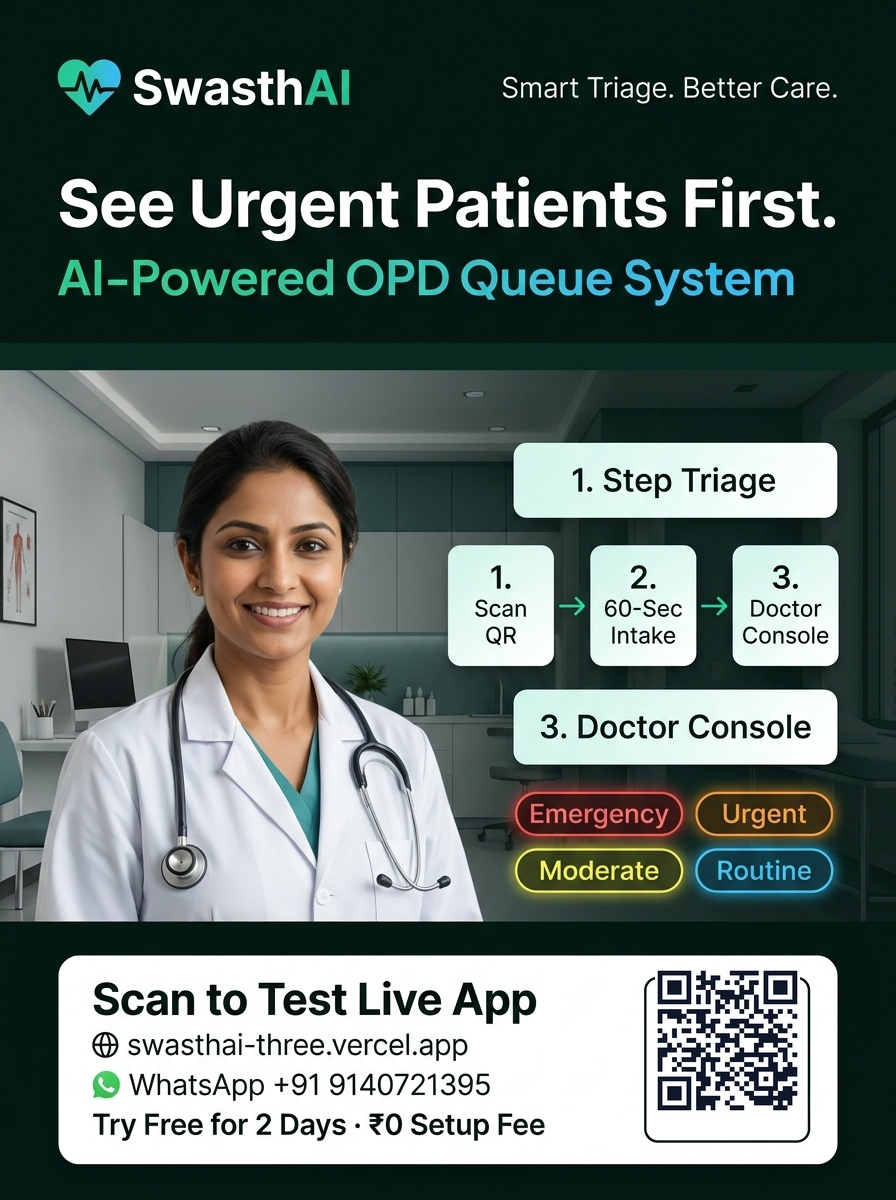
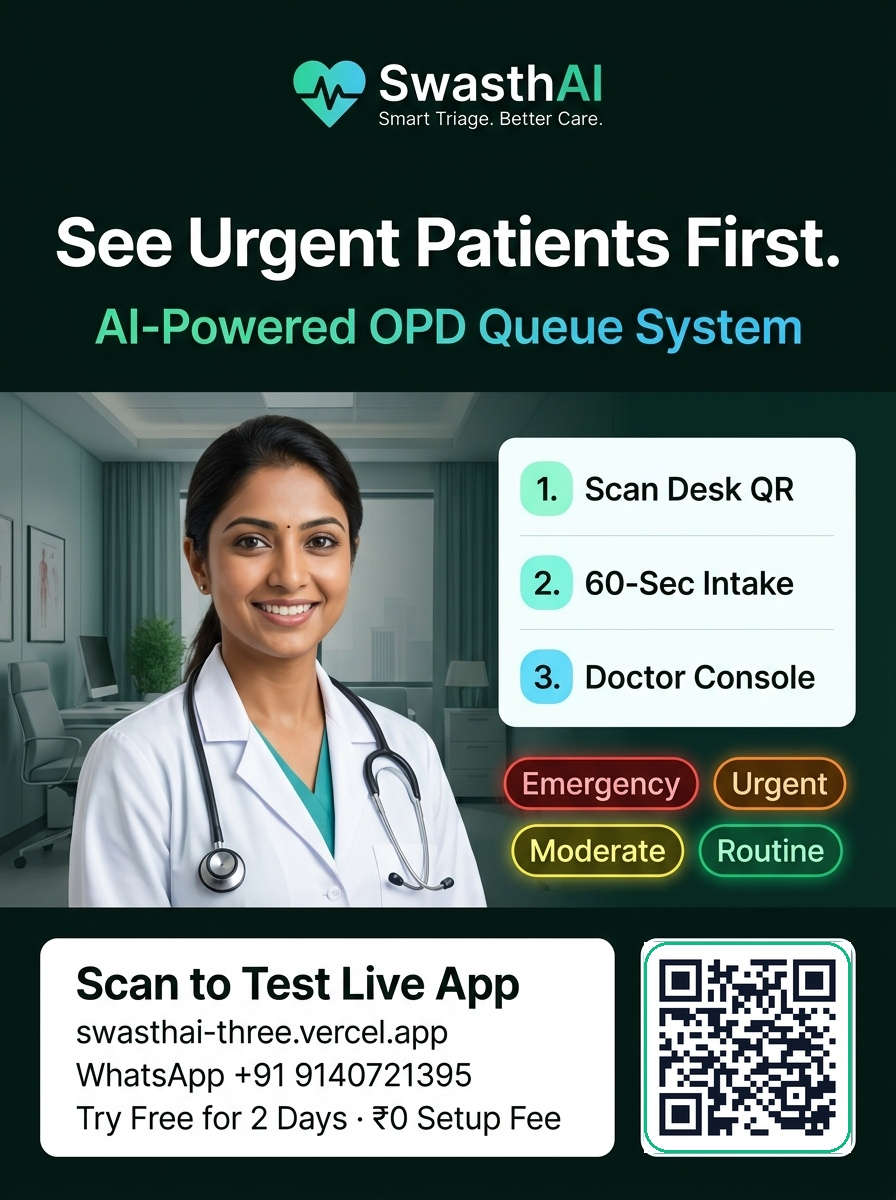
feat(marketing): finalize pixel-perfect flyer image, downloadable site integration, and multi-channel playbook

diff --git a/src/app/contact/page.tsx b/src/app/contact/page.tsx
@@ -130,6 +130,34 @@ export default function ContactPage() {
                 </div>
               </div>
 
+              {/* Downloadable Clinic Flyer Card */}
+              <div className="p-4 rounded-2xl bg-gradient-to-br from-slate-900 to-slate-800 text-white space-y-2 border border-slate-700">
+                <div className="flex items-center justify-between">
+                  <span className="text-xs font-bold uppercase tracking-wider text-emerald-400">Clinic One-Pager</span>
+                  <span className="text-[10px] px-2 py-0.5 rounded bg-white/10 font-mono text-slate-300">PDF / Print</span>
+                </div>
+                <h4 className="text-sm font-bold text-white">Download Clinic Operations Flyer</h4>
+                <p className="text-xs text-slate-300 leading-relaxed">
+                  Share our 1-page operational overview & live triage workflow with your doctors or clinic partners.
+                </p>
+                <div className="pt-1 flex gap-2">
+                  <a
+                    href="/flyer.html"
+                    target="_blank"
+                    className="flex-1 text-center py-2 bg-emerald-600 hover:bg-emerald-500 text-white rounded-lg text-xs font-bold transition-all"
+                  >
+                    View Interactive Flyer →
+                  </a>
+                  <a
+                    href="/img/flyer.jpg"
+                    download="SwasthAI_Clinic_Flyer.jpg"
+                    className="px-3 py-2 bg-white/10 hover:bg-white/20 text-slate-200 rounded-lg text-xs font-semibold"
+                  >
+                    Download JPG
+                  </a>
+                </div>
+              </div>
+
             </div>
 
             {/* Contact Form Column */}

diff --git a/src/app/demo/page.tsx b/src/app/demo/page.tsx
@@ -83,7 +83,7 @@ export default function DemoPage() {
             ))}
           </div>
 
-          <div className="text-center pt-4">
+          <div className="text-center pt-4 flex flex-col sm:flex-row justify-center items-center gap-3">
             <a
               href={waLink}
               target="_blank"
@@ -92,6 +92,14 @@ export default function DemoPage() {
             >
               <MessageSquare className="w-4 h-4 fill-white" />
               <span>Start Your 1-Week Pilot on WhatsApp</span>
+            </a>
+
+            <a
+              href="/flyer.html"
+              target="_blank"
+              className="inline-flex items-center gap-2 bg-slate-100 hover:bg-slate-200 text-slate-800 border border-slate-300 px-5 py-3 rounded-xl font-semibold text-sm transition-all"
+            >
+              <span>Download Clinic Flyer (PDF) →</span>
             </a>
           </div>
         </div>
